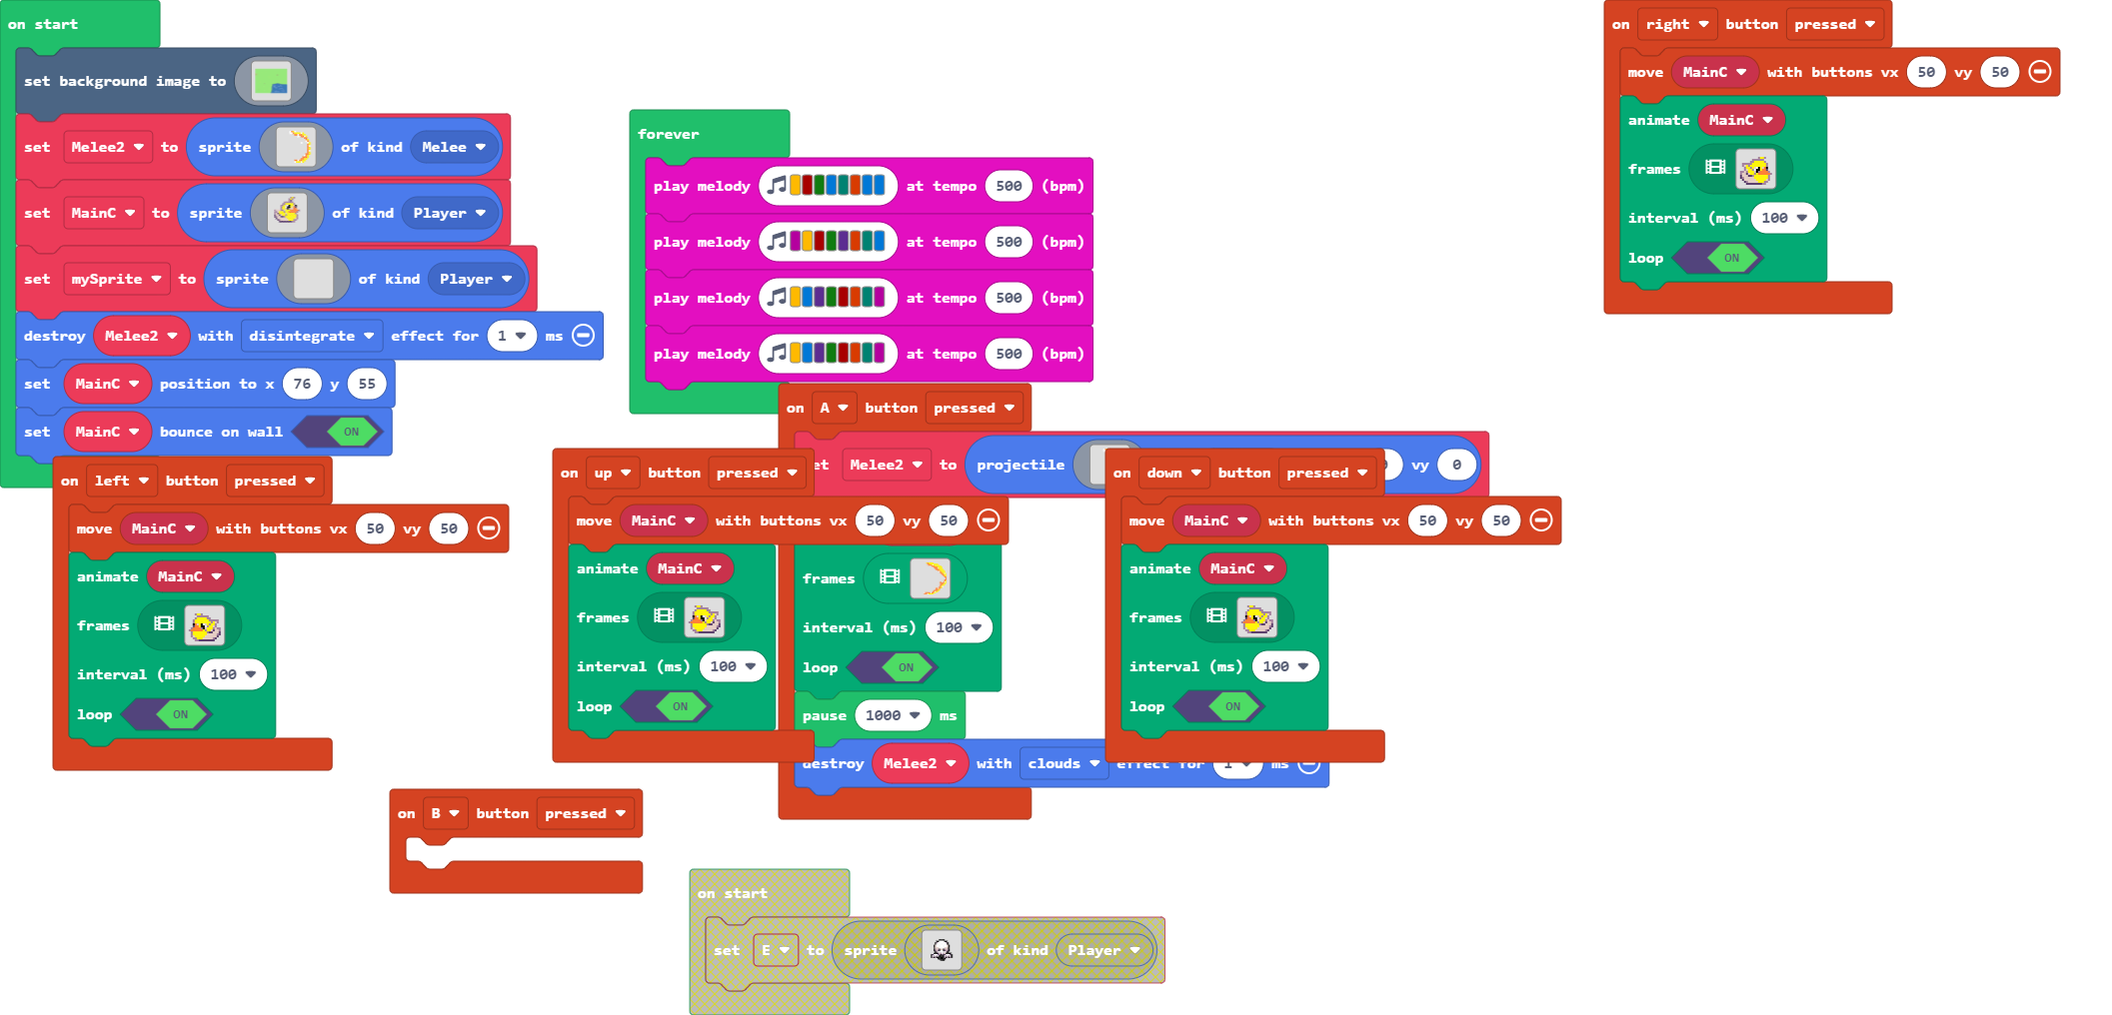
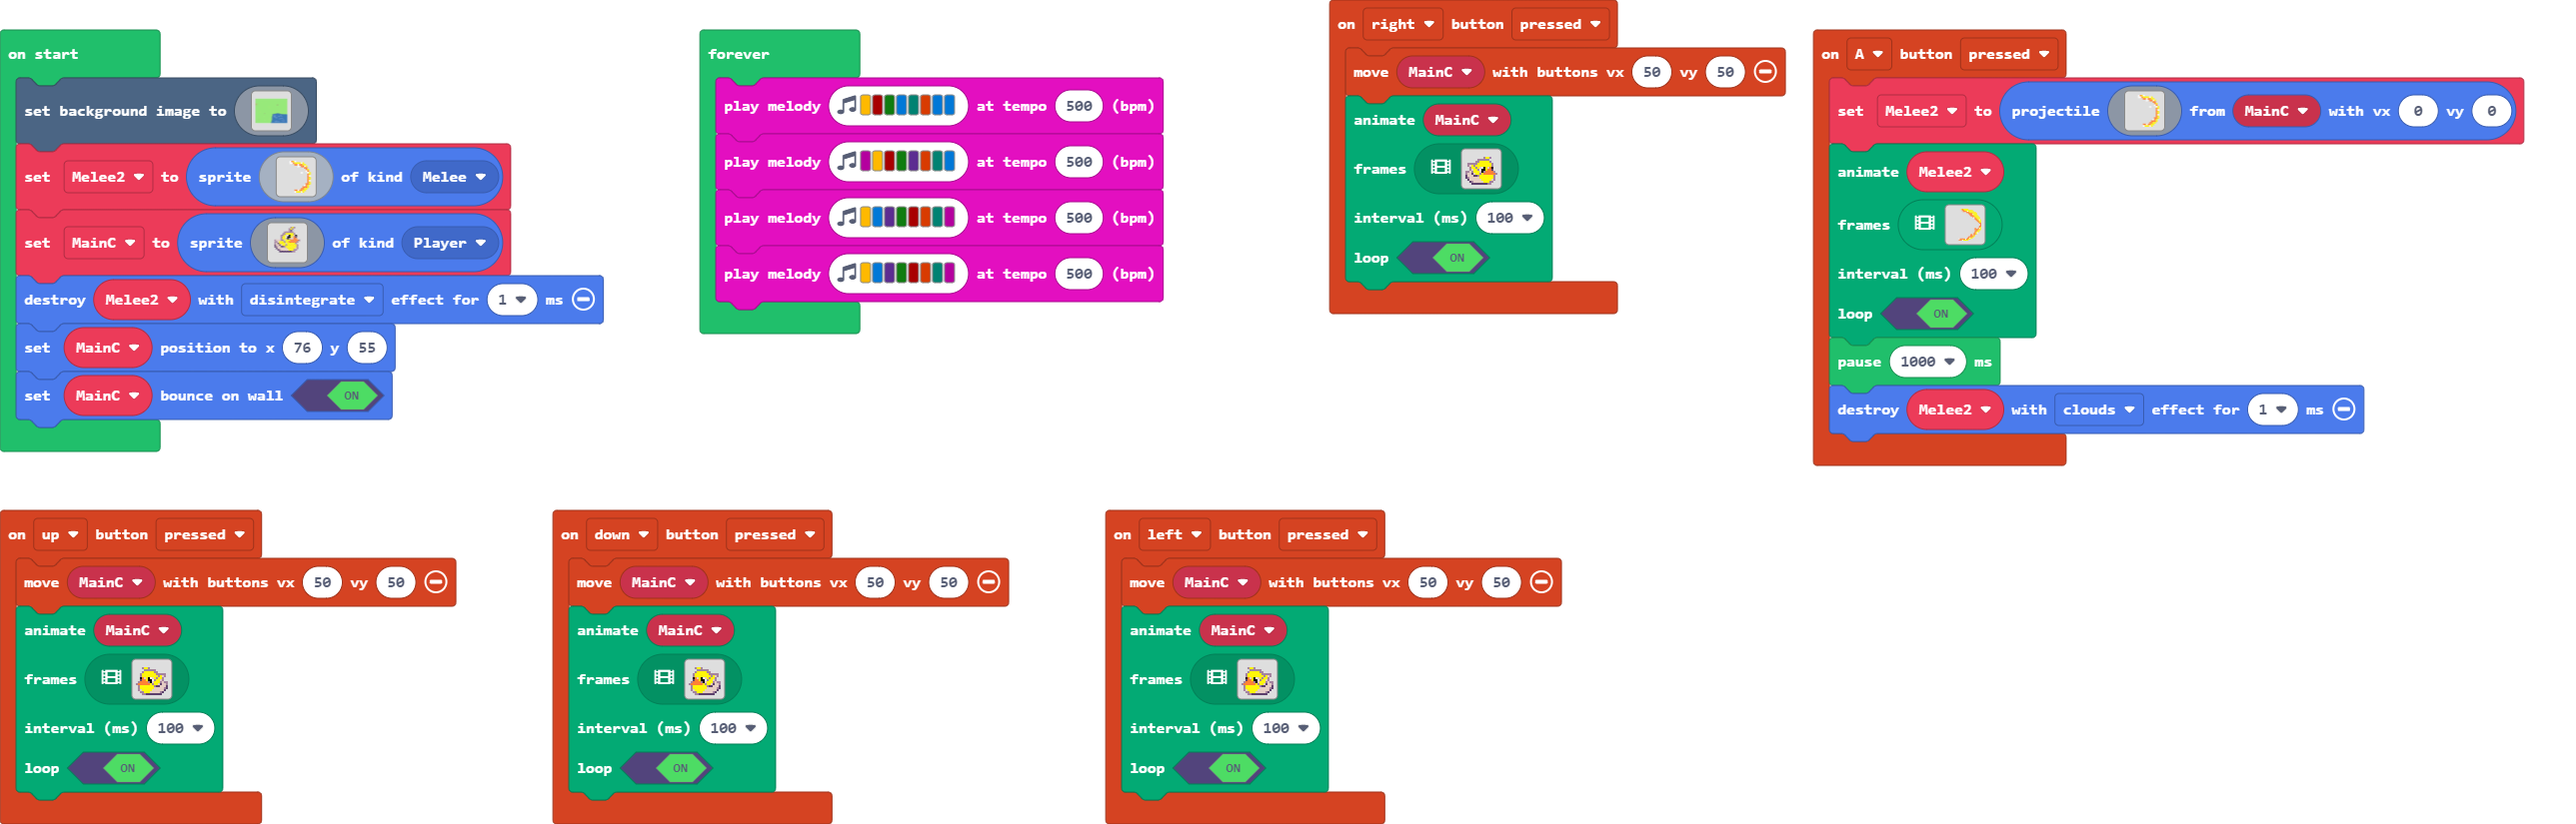
Update pxt.json, main.blocks, main.ts

diff --git a/main.ts b/main.ts
@@ -112,9 +112,6 @@ controller.up.onEvent(ControllerButtonEvent.Pressed, function () {
     true
     )
 })
-controller.B.onEvent(ControllerButtonEvent.Pressed, function () {
-	
-})
 controller.A.onEvent(ControllerButtonEvent.Pressed, function () {
     Melee2 = sprites.createProjectileFromSprite(img`
         ......1451..........
@@ -771,24 +768,6 @@ MainC = sprites.create(img`
     ................
     ................
     ................
-    `, SpriteKind.Player)
-let mySprite = sprites.create(img`
-    . . . . . . . . . . . . . . . . 
-    . . . . . . . . . . . . . . . . 
-    . . . . . . . . . . . . . . . . 
-    . . . . . . . . . . . . . . . . 
-    . . . . . . . . . . . . . . . . 
-    . . . . . . . . . . . . . . . . 
-    . . . . . . . . . . . . . . . . 
-    . . . . . . . . . . . . . . . . 
-    . . . . . . . . . . . . . . . . 
-    . . . . . . . . . . . . . . . . 
-    . . . . . . . . . . . . . . . . 
-    . . . . . . . . . . . . . . . . 
-    . . . . . . . . . . . . . . . . 
-    . . . . . . . . . . . . . . . . 
-    . . . . . . . . . . . . . . . . 
-    . . . . . . . . . . . . . . . . 
     `, SpriteKind.Player)
 Melee2.destroy(effects.disintegrate, 1)
 MainC.setPosition(76, 55)
